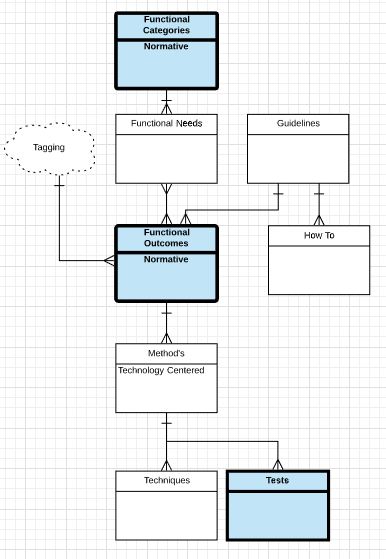
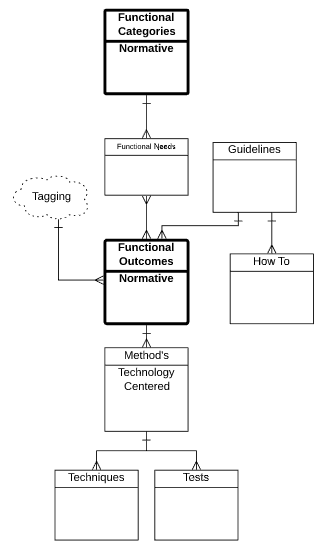
RB Edits
Diagram update, typos, additional content, merged comments from Jeanne and Michael

Changed region(s): [[0.0608, 0.0, 0.9726, 0.9784], [0.0912, 0.2446, 0.1824, 0.2752]]

diff --git a/guidelines/index.html b/guidelines/index.html
@@ -8,9 +8,9 @@
 	</head>
 	<body>
 		<section id="abstract">
-			<p>W3C Accessibility Guidelines (WCAG) 3.0 provides a wide range of recommendations for making Web content more accessible to users with disabilities. Following these guidelines will address many of the needs of users with blindness and low vision, deafness and hearing loss, learning disabilities and cognitive limitations, limited movement, speech disabilities, photosensitivity, and combinations of these. These guidelines address accessibility of web content on desktops, laptops, tablets, mobile devices, and wearable and other Web of Things devices. They address various types of web content including static content, interactive content, visual and auditory media, and virtual and augmented reality. The guidelines also address related web tools such as user agents (browsers and assistive technologies), content management systems, authoring tools, and testing tools.</p>
-			<p>Each <a>guideline</a> in this standard addresses <a>functional outcomes</a> of accessibility practices that address documented <a>user needs</a> of people with disabilities. Guidelines are supported by multiple alternative technology-specific <a>methods</a> to meet each need. This specification is expected to be updated regularly to keep pace with technology change, both by updating or adding methods as well as adding guidelines to address new needs as technologies evolve. For entities that make formal claims of <a>conformance</a> to these guidelines, several grades of conformance are available to address the diverse nature of digital content and the type of testing that is performed.</p>
-			<p>W3C Accessibility Guidelines 3.0 is a successor to <a href="https://www.w3.org/TR/WCAG22/">Web Content Accessibility Guidelines 2.2</a> [[WCAG22]] and previous versions. They also incorporate content from and partially extend <a href="https://www.w3.org/TR/UAAG20/">User Agent Accessibility Guidelines 2.0</a> [[UAAG20]] and <a href="https://www.w3.org/TR/ATAG20/">Authoring Tool Accessibility Guidelines 2.0</a> [[ATAG20]]. Content that conforms to WCAG 2.2 is expected to substantially conform to a conformance level of WCAG 3.0, though these guidelines have many differences from WCAG 2.x. WCAG 3.0 does not supersede WCAG 2.2 and previous versions; rather, it is an alternative and more modern set of guidelines. Once these guidelines become a W3C Recommendation, the W3C will advise the use of WCAG 3.0 to maximize future applicability of accessibility efforts, as well as when developing or updating Web accessibility policies. However, web sites that conform to earlier versions of
+			<p>W3C Accessibility Guidelines (WCAG) 3.0 provides a wide range of recommendations for making Web content more accessible to users with disabilities. Following these guidelines will address many of the needs of users with blindness and low vision, deafness and hearing loss, learning disabilities and cognitive limitations, limited movement, speech disabilities, photosensitivity, and combinations of these. These guidelines address accessibility of web content on desktops, laptops, tablets, mobile devices, wearable devices, and other Web of Things devices. They address various types of web content including static content, interactive content, visual and auditory media, and virtual and augmented reality. The guidelines also address related web tools such as user agents (browsers and assistive technologies), content management systems, authoring tools, and testing tools.</p>
+			<p>[@RM: The next 2 sentences need reworking.] Each <a>guideline</a> in this standard addresses <a>functional outcomes</a> of accessibility practices that address documented <a>user needs</a> of people with disabilities. Guidelines are supported by multiple alternative technology-specific <a>methods</a> to meet each need. This specification is expected to be updated regularly to keep pace with technology change, both by updating or adding methods as well as adding guidelines to address new needs as technologies evolve. For entities that make formal claims of <a>conformance</a> to these guidelines, several grades of conformance are available to address the diverse nature of digital content and the type of testing that is performed.</p>
+			<p>W3C Accessibility Guidelines 3.0 is a successor to <a href="https://www.w3.org/TR/WCAG22/">Web Content Accessibility Guidelines 2.2</a> [[WCAG22]] and previous versions. They also incorporate content from and partially extend <a href="https://www.w3.org/TR/UAAG20/">User Agent Accessibility Guidelines 2.0</a> [[UAAG20]] and <a href="https://www.w3.org/TR/ATAG20/">Authoring Tool Accessibility Guidelines 2.0</a> [[ATAG20]]. Content that conforms to WCAG 2.2 is expected to substantially conform to a conformance level of WCAG 3.0, though these guidelines have many differences from WCAG 2.x. WCAG 3.0 does not supersede WCAG 2.2 and previous versions; rather, it is an alternative and more modern set of guidelines. Once these guidelines become a W3C Recommendation, the W3C will advise developers, content creators and policy makers to use WCAG 3.0 in order to maximize future applicability of accessibility efforts.  However, web sites that conform to earlier versions of
 				WCAG continue to conform to those versions.</p>
 			<p>See <a href="https://www.w3.org/WAI/standards-guidelines/wcag/">Web Content Accessibility Guidelines (WCAG) Overview</a> for an introduction and links to WCAG technical and educational material.</p>
 		</section>
@@ -21,12 +21,13 @@
 			<h2>Introduction</h2>
 			<p>This specification creates a new framework and guidelines to make web content and applications accessible to people with disabilities. W3C Accessibility Guidelines (WCAG) 3.0 supports a wide set of user needs, uses new approaches to testing, and allows frequent maintenance of guidelines to keep pace with accelerating technology change. WCAG 3.x continues this evolution by focusing on users’ functional needs. These are then supported by technology-specific methods to meet that need. </p>
 			<p>Following these guidelines will make content more accessible to a wider range of people with disabilities. This includes accommodations for blindness and low vision, deafness and hearing loss, limited movement, speech disabilities, photosensitivity, learning disabilities, cognitive disabilities and combinations of these. Following these guidelines will also often make content more usable to users in general as well as accessible to individuals with disabilities.</p>
+			<p>WCAG 3.0 is a successor to <a href="https://www.w3.org/TR/WCAG22/">Web Content Accessibility Guidelines 2.2</a> [[WCAG22]] and previous versions. They also incorporate content from and partially extend<a href="https://www.w3.org/TR/UAAG20/">User Agent Accessibility Guidelines 2.0</a> [[UAAG20]] and<a href="https://www.w3.org/TR/ATAG20/">Authoring Tool Accessibility Guidelines 2.0</a> [[ATAG20]]. These earlier versions provided a flexible framework that kept them relevant for over 10 years. However, changing technology and changing needs of people with disabilities has led to the need for a new framework to address content accessibility more comprehensively and flexibly. </p>
 			<p>There are many differences between WCAG 2.x and WCAG 3.x but content that conforms to WCAG 2.2 A &amp; AA is expected to substantially conform to the minimum conformance level of this new standard. Since the new standard will use a different conformance model, the Working Group expects that some organizations may wish to continue using WCAG 2.x, while others may wish to migrate to the new standard. For those that wish to migrate to the new standard, the Working Group will provide transition support materials, which may use mapping and / or other approaches to facilitate migration.</p>
-			<section><h3>Scope of WCAG 3.0</h3><p>During the year of research conducted by the Silver Community Group and their research partners, a recurring theme was the popularity and quality of the guidance in WCAG 2.0. Most of the opportunities identified in the research were improvements in the structure and presentation of accessibility guidance to:</p><ul>
+			<section><h3>Scope of WCAG 3.0</h3><p>During the year of research conducted by the Silver Community Group and their research partners, a recurring theme was the popularity and quality of the guidance in WCAG 2.0. Most of the opportunities identified in the research were changes in the structure and presentation of accessibility guidance to:</p><ul>
 					<li>improve usability — especially for beginners;</li>
-					<li>support more disability needs that cannot be tested by true/false success criteria; and</li>
+					<li>support disability needs that cannot be tested by true/false success criteria; and</li>
 					<li>improve maintenance to keep the guidelines more current.</li>
-				</ul>The goal of WCAG 3.0 is to provide information that can be used to improve the accessibility of products when using the guidelines on a variety of platforms. It uses a different framework to allow it to address more disability needs, address publishing requirements and emerging technologies on the web such as web XR (augmented, virtual and mixed reality) and voice input. It will provide non-<a>normative</a> information about the ways web technologies need to work with authoring tools, user agents, and assistive technologies. This framework is intended to support better coverage across disabilities and be easier to maintain, so that the new framework will be more durable over time as technologies evolve. This will require development of a new conformance model, engaging policy makers in that process, and testing the model with policy makers from different settings.</section>
+				</ul>The goal of WCAG 3.0 is to provide information that can be used to improve the accessibility of products on a variety of platforms. WCAG 3.0 uses a framework that allows it to address more disability needs than WCAG 2.X, as well as address publishing requirements and emerging technologies on the web such as web XR (augmented, virtual and mixed reality) and voice input. It will also provide non-<a>normative</a> information about the ways web technologies need to work with authoring tools, user agents, and assistive technologies. The WCAG 3.0 framework is designed to support better coverage across disabilities and be easier to maintain, so that the new framework will be more durable over time as technologies evolve. [@RM: This sentence was in future tense but that didn't seem to fit. Maybe remove it?] This requires development of a new conformance model, engaging policy makers in that process, and testing the model with policy makers from different settings.</section>
 			<section>
 				<h3>Relationship to Other W3C Guidelines</h3>
 				<p>The <a href="https://www.w3.org/TR/WCAG20/">Web Content Accessibility Guidelines (WCAG) 2.0</a> [[WCAG20]] was designed to be technology neutral, and has stayed relevant for over 10 years. The <a href="https://www.w3.org/TR/ATAG20/">Authoring Tool Accessibility Guidelines (ATAG) 2.0</a> [[ATAG20]] has been implemented in open source authoring tool communities (chiefly Wordpress and Drupal) with little known uptake in commercial authoring tools. <a href="https://www.w3.org/TR/UAAG20/">User Agent Accessibility Guidelines (UAAG) 2.0</a> [[UAAG20]] offers useful guidance to user agent developers and has been implemented on an individual success criterion basis. There is no known user agent that has implemented all of UAAG 2.0. </p>
@@ -55,20 +56,26 @@
 		</section>
 		<section class="informative">
 			<h2>Structure of These Guidelines</h2>
-			<p>WCAG 3.0 is organized by <a>Functional Categories</a> of disabilities which reflect the diverse needs of users with disabilities. Within each Functional Category, Functional Needs are applied to specific topics (for example: contrast, forms, readability, and more)  to identify the barriers experienced by people with disabilities. The barriers in these topics inform the Functional Outcomes, which state the conditions to test whether the Functional Needs have been met.  </p>
+			<section>
+				<h3>Functional Categories</h3>
+				<p>WCAG 3.0 is organized by <a>Functional Categories</a> of disabilities which reflect the diverse needs of users with disabilities. Within each Functional Category, Functional Needs are applied to specific topics (for example: contrast, forms, readability, and more)  to identify the barriers experienced by people with disabilities. The barriers in these topics inform the Functional Outcomes, which state the conditions to test whether the Functional Needs have been met.  </p>
 				<p class="ednote">The work of cataloging functional needs is still in process and will continue after the First Public Working Draft.  Those interested can see more information in this draft Google document <a href="https://docs.google.com/document/d/1eJkgXqbh7dx3uD6XAy8XAANmwfbbVZ5GKb_gbsUdkVs/">Functional Needs - Expanded</a></p>
-
+			</section>
 			<section>
 				<h3>Functional Needs</h3>
-				<p>A statement that describes a specific gap in one’s ability, or a specific mismatch between ability and the designed environment or context.</p>
+				<p>A Functional Need is a statement that describes a specific gap in one’s ability, or a specific mismatch between ability and the designed environment or context.</p>
 				<p>Note: The intent is to express the need in a contextual model, as opposed to a lack of ability in a medical model. This is similar to the ICF (International Classification of Functioning – a biopsychosocial model), “outcomes of interactions between health conditions (diseases, disorders and injuries) and contextual factors”, focusing on the interactions. </p>
 				<blockquote>Example: Use without vision.</blockquote>
 				<p>Functional Needs are documented in the supplementary material accompanying the Guidelines and Functional Outcomes.<p>
 			</section>
 			<section>
 				<h3>Guidelines</h3>
-				<p>Guidelines are high level plain language summaries that address Functional Needs on specific topics, such as contrast, forms, readability, and more.  They organize and group the Functional Outcomes. Guidelines are technology independent. The How-To provides the explanatory material for the guideline that applies across technologies. </p>	
+				<p>Guidelines are high level plain language summaries that address Functional Needs on specific topics, such as contrast, forms, readability, and more.  They organize and group the Functional Outcomes. Guidelines are technology independent.</p>	
 				<p>Guidelines will be identified by unique name. Translations should have an appropriate unique name.</p>				
+			</section>
+			<section>
+				<h3>How-Tos</h3>
+				<p>The How-To provides explanatory material for the guideline that applies across technologies. This plain language resource includes information on getting started, who the guideline helps and how, as well information for designers and developers.  </p>
 			</section>
 			<section>
 				<h3>Functional Outcomes</h3>
@@ -82,22 +89,13 @@
 			</section>
 			<section>
 				<h3>Methods</h3>
-				<p>Each Functional Outcome has one or more <a>Methods</a>. The Methods include detailed techniques and tests for meeting and testing the functional outcome. Existing WCAG 2.2 techniques may be referenced in the appropriate Method for the Functional Outcome. New tests and how to score existing and new tests are included in the Method.  </p>
+				<p>Each Functional Outcome has one or more <a>Methods</a>. The Methods include detailed techniques and tests for meeting and testing the functional outcome for a specific technology. Existing WCAG 2.2 techniques may be referenced in the appropriate Method for the Functional Outcome. New tests and how to score existing and new tests are included in the Method.  </p>
 			</section>
 			<section>
 				<h3>Tests</h3>
-				<p>@@ [Jeanne recommends deleting, we have too much in this. I included it in Methods]</p>
+				<p>@@ [Jeanne recommends deleting, we have too much in this. I included it in Methods. Michael would prefer this in. RB: If we leave it in we should have a section for techniques. I am in favor of removing it.]</p>
 			</section>
-			<section>
-				<h3>How-To</h3>
-				<p>@@[Jeanne recommends deleting. I included it in Guidelines]</p>
-			</section>
-		</section>
-		<section class="informative">
-			<h2>List of User Needs</h2>
-			<p>@@to be taken from collection? If so, just a high level. Or reference external?</p>
-			<p>@@ Jeanne recommends deleting this section. We have lists of user needs in the individual How To for a guideline.  There is no overall list and no plan to make one.  </p>
-			
+
 		</section>
 		<section>
 			<h2>Normative Requirements</h2>
@@ -106,7 +104,7 @@
 		</section>
 		<section>
 			<h2>The Guidelines</h2>
-			<p>The individuals and organizations that use WCAG vary widely and include Web designers and developers, policy makers, purchasing agents, teachers, and students. In order to meet the varying needs of this audience, several layers of guidance are provided including functional categories of disabilities, general guidelines, functional outcomes that can be tested and a rich collection of methods, and documented common failures with examples, resource links and code.</p>
+			<p>The individuals and organizations that use WCAG vary widely and include Web designers and developers, policy makers, purchasing agents, teachers, and students. In order to meet the varying needs of this audience, several layers of guidance are provided including functional categories of disabilities, general guidelines, functional outcomes that can be tested and a rich collection of methods, and documented common failures with examples, resource links, and code.</p>
 
 			<p class="ednote">The process of migrating information from WCAG 2.x to WCAG 3.0 has just begun. This document presents initial examples of how the structure works. The <a href="https://w3c.github.io/silver/guidelines/explainers/template.html">template for the new content</a> presents the skeleton of the architecture and may help . We welcome comments on this. </p>
 			<p class="ednote">These are early drafts of guidelines. They are used to illustrate what WCAG 3.0 could look like and to test the process of writing content. These guideline drafts should not be considered as final content of WCAG 3.0. They are there to show how the structure would work. As this draft matures, numbering of individual guidelines will be removed to improve overall usability of the guidelines in response to public requests. </p>
@@ -204,6 +202,8 @@
 					<li>Traditional tests include the tests that support A, AA, and AAA Success Criteria in WCAG 2.x. In WCAG 3.0, these tests support functional outcomes and lead to a Bronze rating. In most cases, testing individual elements will result in binary, pass/fail outcome for that element. These results are then used to assign a score to each functional outcome.  </li>
 					<li>Holistic tests include assistive technology testing, user-centered design methods, and both user and expert usability testing.  Holistic testing applies to the entire declared scope and often uses the declared processes to guide the tests selected.  Holistic tests are used to reach a Silver or Gold rating.</li>
 				</ol>
+				<p>All WCAG 3.0 Functional Outcomes are written as testable criteria for objectively determining if content satisfies them. Testing the Functional Outcomes using the traditional tests involves a combination of automated testing and human evaluation. The content should be tested by those who understand how people with different types of disabilities use the technology being tested.</p>
+				<p>Although content may satisfy all Functional Outcomes using the traditional tests, the content may not always be usable by people with a wide variety of disabilities. The holistic tests address this gap.</p>
 			</section>
 			<section><h3>Scoring</h3><p class="ednote">One the goals of WCAG 3.0 is to expand scoring tests of methods beyond a binary true/false choice at the page level. We have included tests within the sample functional outcomes that demonstrate alternatives such as rubrics and scales.We are also exploring integrating these options into <a href="https://www.w3.org/WAI/standards-guidelines/act/">Accessibility Conformance Testing</a> format. We will include example tests in a future draft. Our intent is to include detailed <a href="https://w3c.github.io/silver/requirements/#multiple-ways-to-measure">tests for methods</a> to support each functional outcome within the WCAG 3.0 framework . </p><p>Each functional outcome has methods associated with different technologies. Each method contains tests and techniques for meeting that functional outcome.  Testers can test the accessibility of new and emerging technologies that do not have related methods based on the functional
 					outcome. </p><p>Tests are applied at the view level and can be scored in one of three ways which will be included in the test statement:</p><ul>
@@ -220,7 +220,11 @@
 		</section>
 		<section>
 			<h2>Conformance</h2>
-			<p>@@Introductory text about you don’t have to conform, but if you want to claim conformance here’s how; we recommend following the steps even if not making a formal claim.</p>
+			<p>@@NEEDS MORE WORK </p>
+			<p>Conformance to a standard means that you meet or satisfy the 'requirements' of the standard. In WCAG 3.0 the 'requirements' are the Functional Outcomes. </p>
+			<p>Technology can meet the Functional Outcomes without a conformance claim.  If you want to claim conformance, you must follow the process below; however, even if you are not making a formal conformance claim, you can use this process to assess the accessibility of content.</p>
+
+
 			<section>
 				<h3>Conformance Requirements</h3>
 				<p>In order for technology to <a>conform</a> to WCAG 3.0, all of the following conformance requirements must be satisfied:</p>
@@ -266,7 +270,7 @@
 						<li><a href="http://www.example.com/recent_news">www.example.com/recent_news</a></li>
 						<li><a href="http://www.example.com/about">www.example.com/about</a></li>
 						<li><a href="http://www.example.com/leadership">www.example.com/leadership</a></li>
-						<li>www.example.com/learn_more</li>
+						<li><a href="http://www.example.com/learnmore">www.example.com/learn_more</a></li>
 					</ul>
 				</section>
 			</section>
